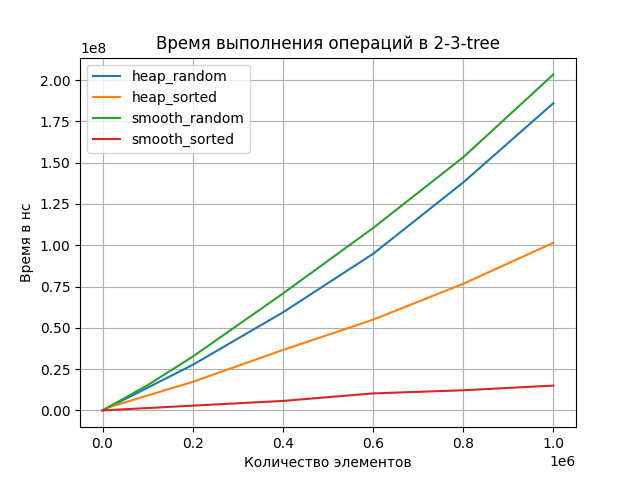
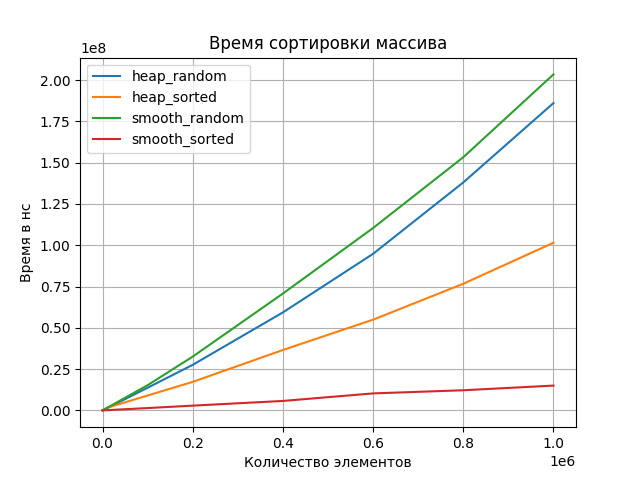
Исправление текста

Changed region(s): [[0.25, 0.0625, 0.7812, 0.125]]

diff --git a/make_plot.py b/make_plot.py
@@ -25,7 +25,7 @@ plt.grid()
 plt.ylabel('Время в нс')
 plt.xlabel('Количество элементов')
 
-plt.title('Время выполнения операций в 2-3-tree')
+plt.title('Время сортировки массива')
 
 plt.plot(heap_random[0], heap_random[1], label='heap_random')
 plt.plot(heap_sorted[0], heap_sorted[1], label='heap_sorted')
